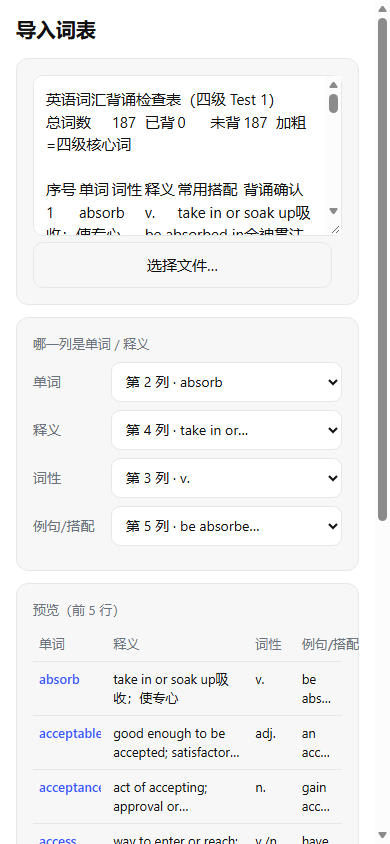
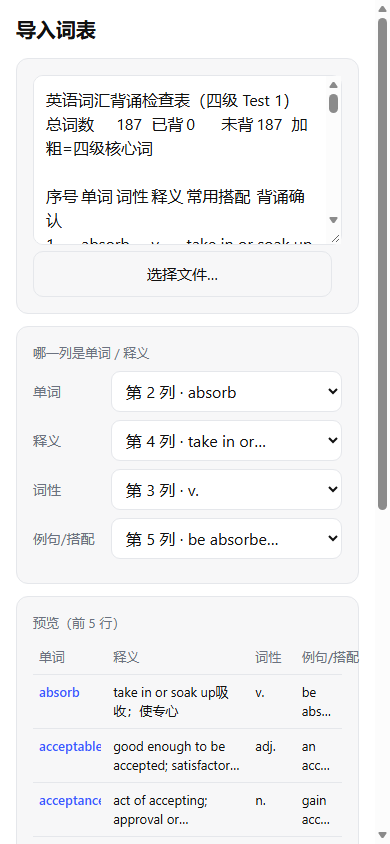
任务10: 无障碍与移动端收口（输入框16px防iOS缩放、点按区域、aria标签、减弱动效）+ 35x2 项检查

diff --git a/tests/browser/a11y.test.html b/tests/browser/a11y.test.html
@@ -1,0 +1,138 @@
+<!doctype html>
+<html lang="zh-CN">
+<head>
+<meta charset="utf-8">
+<title>无障碍与移动端检查</title>
+</head>
+<body>
+<pre id="result">{"stage":"running"}</pre>
+<script src="trap.js"></script>
+<script type="module">
+/* 任务 10 的验收：无障碍 + 移动端那些"Chrome 上好好的、手机上不对劲"的坑。
+ *
+ * 同一份脚本跑两遍（见 tool/verify_all.py）：
+ *   python tool/browser_test.py tests/browser/a11y.test.html
+ *   python tool/browser_test.py tests/browser/a11y.test.html --reduced-motion
+ * 第二遍才会断言"减弱动效真的生效"，所以两遍合起来才构成完整证据。
+ */
+import { holdLoad, ok, openApp, report } from './harness.js';
+
+const release = holdLoad();
+const now = Date.now();
+let db = null;
+
+const reduced = matchMedia('(prefers-reduced-motion: reduce)').matches;
+
+/** 只看真正显示出来的控件：藏在折叠表单里的输入框不该算问题 */
+const visible = (n) => n.getClientRects().length > 0;
+
+function tapRect(n) {
+  // 复选框/单选框本身很小，点按区域靠外层 label，按 label 算
+  if (n.type === 'checkbox' || n.type === 'radio') {
+    const label = n.closest('label');
+    if (label) return label.getBoundingClientRect();
+  }
+  return n.getBoundingClientRect();
+}
+
+async function audit(label, frame) {
+  const doc = frame.contentDocument;
+  const style = frame.contentWindow.getComputedStyle.bind(frame.contentWindow);
+
+  const unnamed = [...doc.querySelectorAll('button')].filter((b) => {
+    const text = (b.textContent || '').trim();
+    return !text && !b.getAttribute('aria-label') && !b.getAttribute('title');
+  });
+  ok(`${label}：按钮都有可读名字`, unnamed.length === 0, unnamed.map((b) => b.className || b.outerHTML.slice(0, 40)).join(' | '));
+
+  const unlabeled = [...doc.querySelectorAll('input, textarea, select')].filter((f) => {
+    if (f.type === 'hidden' || f.hidden || !visible(f)) return false;
+    if (f.getAttribute('aria-label') || f.getAttribute('title')) return false;
+    if (f.closest('label')) return false;
+    if (f.id && doc.querySelector(`label[for="${f.id}"]`)) return false;
+    return true;
+  });
+  ok(`${label}：输入控件都有标签`, unlabeled.length === 0, unlabeled.map((f) => f.className || f.type).join(' | '));
+
+  const tiny = [...doc.querySelectorAll('button, a[href], input, select, textarea')].filter((n) => {
+    if (!visible(n)) return false;
+    const r = tapRect(n);
+    if (r.width === 0 && r.height === 0) return false;
+    return r.height < 32 || r.width < 24;
+  });
+  ok(`${label}：点按区域不小于 32×24`, tiny.length === 0, tiny.map((n) => `${n.tagName.toLowerCase()}.${n.className}=${Math.round(tapRect(n).height)}`).join(' | '));
+
+  const smallFont = [...doc.querySelectorAll('input, textarea, select')].filter((n) => {
+    if (n.type === 'checkbox' || n.type === 'radio' || n.type === 'file' || !visible(n)) return false;
+    return parseFloat(style(n).fontSize) < 16;
+  });
+  ok(
+    `${label}：输入框字号 ≥16px（否则 iOS 聚焦时会自动放大页面）`,
+    smallFont.length === 0,
+    smallFont.map((n) => `${n.className}=${style(n).fontSize}`).join(' | ')
+  );
+
+  const unfocusable = [...doc.querySelectorAll('button, a[href], input, select, textarea')].filter(
+    (n) => !n.disabled && visible(n) && n.tabIndex < 0
+  );
+  ok(`${label}：可交互元素都能 Tab 到`, unfocusable.length === 0, unfocusable.map((n) => n.className).join(' | '));
+
+  const overflowsX = doc.documentElement.scrollWidth > doc.documentElement.clientWidth + 1;
+  ok(`${label}：没有横向滚动`, !overflowsX, `scrollWidth=${doc.documentElement.scrollWidth} clientWidth=${doc.documentElement.clientWidth}`);
+}
+
+async function seed() {
+  await db.wipeAll();
+  const lib = 'lib-a';
+  await db.put('libs', { id: lib, name: '四级 Test 1', color: '#3b5bff', order: 0, updatedAt: now });
+  let i = 0;
+  for (const [term, pos, meanings] of [
+    ['absorb', 'v.', ['take in or soak up吸收', '使专心']],
+    ['access', 'v./n.', ['存取（信息）', '接近']],
+    ['accomplish', 'v.', ['完成', '实现']]
+  ]) {
+    const id = `w-${term}`;
+    await db.put('words', { id, term, termNorm: term, phonetic: 'əbˈsɔːb', pos, meanings, example: 'be absorbed in全神贯注于', note: '', createdAt: now + i++, updatedAt: now });
+    await db.put('links', { id: `${id}|${lib}`, wordId: id, libId: lib, addedAt: now, updatedAt: now });
+  }
+  await db.put('prog', { wordId: 'w-access', box: 2, dueAt: now - 1000, streak: 1, lapses: 0, lastDir: 'en2zh', updatedAt: now });
+  return lib;
+}
+
+try {
+  db = await import('../../src/db.js');
+
+  // ---------------- index.html 的全局项 ----------------
+  const shell = await (await fetch('../../index.html')).text();
+  ok('index.html 声明了中文', shell.includes('lang="zh-CN"'));
+  ok('有非空 title', /<title>[^<]+<\/title>/.test(shell), (shell.match(/<title>([^<]*)<\/title>/) || [])[1]);
+  const viewport = (shell.match(/<meta name="viewport" content="([^"]+)"/) || [])[1] || '';
+  ok('viewport 不禁止缩放（无障碍要求）', !!viewport && !/maximum-scale|user-scalable\s*=\s*no/.test(viewport), viewport);
+  ok('声明了 theme-color', /<meta name="theme-color"/.test(shell));
+
+  // ---------------- 四个界面逐个审 ----------------
+  const lib = await seed();
+  await audit('库列表', await openApp({ hash: '#/', sel: '[data-testid="lib-row"]', size: [390, 844] }));
+  await audit('练习', await openApp({ hash: `#/practice?lib=${lib}`, sel: '[data-testid="practice-input"]', size: [390, 844] }));
+  await audit('导入', await openApp({ hash: '#/import', sel: '[data-testid="import-text"]', size: [390, 844] }));
+  await audit('词条列表', await openApp({ hash: `#/word?lib=${lib}`, sel: '[data-testid="word-row"]', size: [390, 844] }));
+  await audit('词条编辑', await openApp({ hash: `#/word?id=w-absorb&lib=${lib}`, sel: '[data-testid="word-edit"]', size: [390, 844] }));
+
+  // ---------------- 减弱动效 ----------------
+  const motionFrame = await openApp({ hash: '#/', sel: '[data-testid="lib-row"]', size: [390, 844] });
+  const bar = motionFrame.contentDocument.querySelector('[data-testid="lib-progress"] > i');
+  const dur = motionFrame.contentWindow.getComputedStyle(bar).transitionDuration;
+  if (reduced) {
+    ok('系统开了"减弱动效"时，过渡被关掉', dur === '0s', `transition-duration=${dur}`);
+  } else {
+    ok('没开减弱动效时，进度条是有过渡的（这条是上一条的对照）', dur !== '0s', `transition-duration=${dur}`);
+  }
+} catch (e) {
+  ok('无障碍检查脚本本身不能崩', false, (e && e.stack) || String(e));
+}
+
+report();
+release();
+</script>
+</body>
+</html>

diff --git a/style.css b/style.css
@@ -34,6 +34,16 @@
 /* hidden 必须真的隐藏：因为后面有用 display:flex/grid 的规则，会盖掉浏览器默认的 [hidden] */
 [hidden] { display: none !important; }
 
+/* 系统开了"减弱动效"就把过渡和动画都关掉 */
+@media (prefers-reduced-motion: reduce) {
+  *, *::before, *::after {
+    transition-duration: 0s !important;
+    animation-duration: 0.001s !important;
+    animation-iteration-count: 1 !important;
+    scroll-behavior: auto !important;
+  }
+}
+
 html, body {
   margin: 0;
   height: 100%;
@@ -129,7 +139,9 @@ body {
 .lib-dot { width: 10px; height: 10px; border-radius: 50%; }
 .lib-body { min-width: 0; }
 .lib-name {
-  display: block;
+  display: flex;
+  align-items: center;
+  min-height: 32px;
   max-width: 100%;
   padding: 0;
   border: 0;
@@ -183,7 +195,8 @@ body[data-view='practice'] #tabbar { display: none; }
 .prac-progress { color: var(--muted); font-size: 14px; }
 .dir-switch { margin-left: auto; display: flex; gap: 2px; padding: 2px; border-radius: 9px; background: var(--card); }
 .dir-switch button {
-  border: 0; border-radius: 7px; padding: 6px 9px;
+  border: 0; border-radius: 7px; padding: 8px 10px;
+  min-height: 36px;
   background: none; color: var(--muted);
   font: inherit; font-size: 13px;
 }
@@ -229,7 +242,8 @@ body[data-view='practice'] #tabbar { display: none; }
   background: var(--bg);
   color: var(--fg);
   font: inherit;
-  font-size: 15px;
+  /* 16px 是底线：再小 iOS 聚焦时会自动放大整个页面 */
+  font-size: 16px;
   resize: vertical;
 }
 .import-hint { margin-top: 10px; color: var(--muted); font-size: 13px; line-height: 1.6; }
@@ -249,7 +263,7 @@ body[data-view='practice'] #tabbar { display: none; }
   background: var(--bg);
   color: var(--fg);
   font: inherit;
-  font-size: 14px;
+  font-size: 16px;
 }
 
 .import-preview { width: 100%; border-collapse: collapse; table-layout: fixed; font-size: 13px; }
@@ -270,7 +284,7 @@ body[data-view='practice'] #tabbar { display: none; }
 .import-preview .is-term { color: var(--accent); font-weight: 600; white-space: nowrap; text-overflow: ellipsis; }
 
 .lib-checks { display: grid; gap: 8px; margin-bottom: 10px; }
-.lib-check-label { display: flex; align-items: center; gap: 8px; font-size: 15px; }
+.lib-check-label { display: flex; align-items: center; gap: 8px; min-height: 32px; font-size: 15px; }
 .lib-check-label input { width: 18px; height: 18px; }
 .lib-check-dot { width: 9px; height: 9px; border-radius: 50%; }
 
@@ -298,7 +312,7 @@ body[data-view='practice'] #tabbar { display: none; }
   background: var(--bg);
   color: var(--fg);
   font: inherit;
-  font-size: 15px;
+  font-size: 16px;
 }
 .word-count { color: var(--muted); font-size: 13px; }
 
@@ -342,7 +356,7 @@ body[data-view='practice'] #tabbar { display: none; }
   background: var(--bg);
   color: var(--fg);
   font: inherit;
-  font-size: 15px;
+  font-size: 16px;
   resize: vertical;
 }
 .grid-2 { display: grid; grid-template-columns: 1fr 1fr; gap: 10px; }

diff --git a/src/ui-import.js b/src/ui-import.js
@@ -52,12 +52,14 @@ export async function renderImport() {
     dataset: { testid: 'import-text' },
     rows: '6',
     spellcheck: 'false',
+    'aria-label': '粘贴词表（单词和释义两列）',
     placeholder: '在 Excel 里选中单词和释义两列，Ctrl+C，粘到这里'
   });
   const file = el('input', {
     type: 'file',
     dataset: { testid: 'import-file' },
     accept: '.csv,.tsv,.txt,text/plain,text/csv',
+    'aria-label': '选择词表文件',
     hidden: true
   });
   const fileBtn = el('button', { className: 'ghost', type: 'button', onclick: () => file.click() }, '选择文件…');
@@ -68,8 +70,8 @@ export async function renderImport() {
   const result = el('div', { className: 'import-result', dataset: { testid: 'import-result' } });
 
   // 列选择
-  const mkSelect = (testid, withNone) => {
-    const sel = el('select', { className: 'col-select', dataset: { testid } });
+  const mkSelect = (testid, withNone, label) => {
+    const sel = el('select', { className: 'col-select', dataset: { testid }, 'aria-label': label });
     if (withNone) sel.append(el('option', { value: '-1' }, '不用'));
     sel.addEventListener('change', () => {
       const key = testid === 'sel-term' ? 'termCol' : testid === 'sel-mean' ? 'meanCol' : testid === 'sel-pos' ? 'posCol' : 'exampleCol';
@@ -78,10 +80,10 @@ export async function renderImport() {
     });
     return sel;
   };
-  const selTerm = mkSelect('sel-term', false);
-  const selMean = mkSelect('sel-mean', false);
-  const selPos = mkSelect('sel-pos', true);
-  const selExample = mkSelect('sel-example', true);
+  const selTerm = mkSelect('sel-term', false, '单词在哪一列');
+  const selMean = mkSelect('sel-mean', false, '释义在哪一列');
+  const selPos = mkSelect('sel-pos', true, '词性在哪一列');
+  const selExample = mkSelect('sel-example', true, '例句或搭配在哪一列');
 
   const preview = el('table', { className: 'import-preview', dataset: { testid: 'import-preview' } }, [
     el('colgroup', {}),
@@ -91,7 +93,7 @@ export async function renderImport() {
 
   const libBox = el('div', { className: 'lib-checks', dataset: { testid: 'lib-checks' } });
   const newLibForm = el('form', { className: 'card newlib-form', dataset: { testid: 'import-newlib-form' }, hidden: true }, [
-    el('input', { name: 'name', type: 'text', placeholder: '新词库名字', maxlength: '40' }),
+    el('input', { name: 'name', type: 'text', placeholder: '新词库名字', maxlength: '40', 'aria-label': '新词库名字' }),
     el('div', { className: 'row-2' }, [
       el('button', { className: 'ghost', type: 'button', onclick: () => { newLibForm.hidden = true; } }, '取消'),
       el('button', { className: 'primary', type: 'submit' }, '创建')

diff --git a/src/ui-home.js b/src/ui-home.js
@@ -140,7 +140,7 @@ function openNewLibForm(anchor, data) {
   }
   let color = PALETTE[data.libs.length % PALETTE.length];
 
-  const input = el('input', { name: 'name', type: 'text', placeholder: '词库名字，例如：四级 Test 2', maxlength: '40' });
+  const input = el('input', { name: 'name', type: 'text', placeholder: '词库名字，例如：四级 Test 2', maxlength: '40', 'aria-label': '新词库名字' });
   const swatches = PALETTE.map((c, i) =>
     el('button', {
       className: 'color',

diff --git a/tool/browser_test.py b/tool/browser_test.py
@@ -21,7 +21,7 @@ from headless import main_guard, read_result, run_dom  # noqa: E402
 ROOT = Path(__file__).resolve().parent.parent
 
 
-def run(rel_path: str, port: int = 5191, budget: int | None = None, timeout: float = 120.0) -> int:
+def run(rel_path: str, port: int = 5191, budget: int | None = None, timeout: float = 120.0, extra: tuple[str, ...] = ()) -> int:
     page = (ROOT / rel_path).resolve()
     if not page.exists():
         print(f"找不到测试页：{page}")
@@ -32,7 +32,7 @@ def run(rel_path: str, port: int = 5191, budget: int | None = None, timeout: flo
     print(f"测试页：{url_path}   服务：{base}")
     try:
         # budget=None：靠页面自己拖住 load 事件，测试结束才 dump
-        dom = run_dom(f"{base}/{url_path}", budget_ms=budget, timeout=timeout)
+        dom = run_dom(f"{base}/{url_path}", budget_ms=budget, timeout=timeout, extra=extra)
     finally:
         httpd.shutdown()
         httpd.server_close()
@@ -64,11 +64,16 @@ def run(rel_path: str, port: int = 5191, budget: int | None = None, timeout: flo
 def main() -> int:
     args = [a for a in sys.argv[1:] if not a.startswith("--")]
     opts = {a.split("=")[0]: a.split("=", 1)[1] for a in sys.argv[1:] if a.startswith("--") and "=" in a}
+    flags = {a for a in sys.argv[1:] if a.startswith("--") and "=" not in a}
     if not args:
         print(__doc__)
         return 2
     budget = int(opts["--budget"]) if "--budget" in opts else None
-    return run(args[0], port=int(opts.get("--port", 5191)), budget=budget)
+    extra: tuple[str, ...] = ()
+    if "--reduced-motion" in flags:
+        # 让浏览器报告"系统已开启减弱动效"，用来验证 CSS 的对应处理真的生效
+        extra = ("--force-prefers-reduced-motion",)
+    return run(args[0], port=int(opts.get("--port", 5191)), budget=budget, extra=extra)
 
 
 if __name__ == "__main__":

diff --git a/tool/verify_all.py b/tool/verify_all.py
@@ -27,6 +27,8 @@ STEPS: list[tuple[str, list[str], str]] = [
     ("⑥ 界面：导入", [PY, "tool/browser_test.py", "tests/browser/ui-import.test.html"], "ui"),
     ("⑦ 界面：词条", [PY, "tool/browser_test.py", "tests/browser/ui-word.test.html"], "ui"),
     ("⑧ 布局：各界面无横向滚动", [PY, "tool/browser_test.py", "tests/browser/layout.test.html"], "ui"),
+    ("⑨ 无障碍与移动端（常规）", [PY, "tool/browser_test.py", "tests/browser/a11y.test.html"], "ui"),
+    ("⑩ 无障碍与移动端（系统开启减弱动效）", [PY, "tool/browser_test.py", "tests/browser/a11y.test.html", "--reduced-motion"], "ui"),
 ]
 
 CHECKLIST: list[tuple[str, list[int] | None]] = [
@@ -35,6 +37,7 @@ CHECKLIST: list[tuple[str, list[int] | None]] = [
     ("四个界面都能打开并走完一次真实操作（导入 → 练习 → 判定 → 进度更新）", [4, 5, 6, 7]),
     ("断网后刷新仍能用（service worker 生效）", [2]),
     ("手机与桌面尺寸都不出现横向滚动、不溢出", [8]),
+    ("无障碍：按钮有名字、输入有标签、点按区域够大、输入框字号 ≥16px、减弱动效生效", [9, 10]),
     ("iPhone 真机安装（Safari → 添加到主屏幕 → 离线可用）", None),
 ]
 

diff --git a/tool/headless.py b/tool/headless.py
@@ -46,6 +46,7 @@ def run_dom(
     screenshot: str | None = None,
     keep_profile: bool = False,
     timeout: float = 90.0,
+    extra: tuple[str, ...] | list[str] = (),
 ) -> str:
     """加载 url，返回最终 DOM 文本。
 
@@ -77,6 +78,7 @@ def run_dom(
         args.append(f"--virtual-time-budget={int(budget_ms)}")
     if size:
         args.append(f"--window-size={int(size[0])},{int(size[1])}")
+    args.extend(extra)
     if screenshot:
         args.append(f"--screenshot={os.path.abspath(screenshot)}")
     else:
